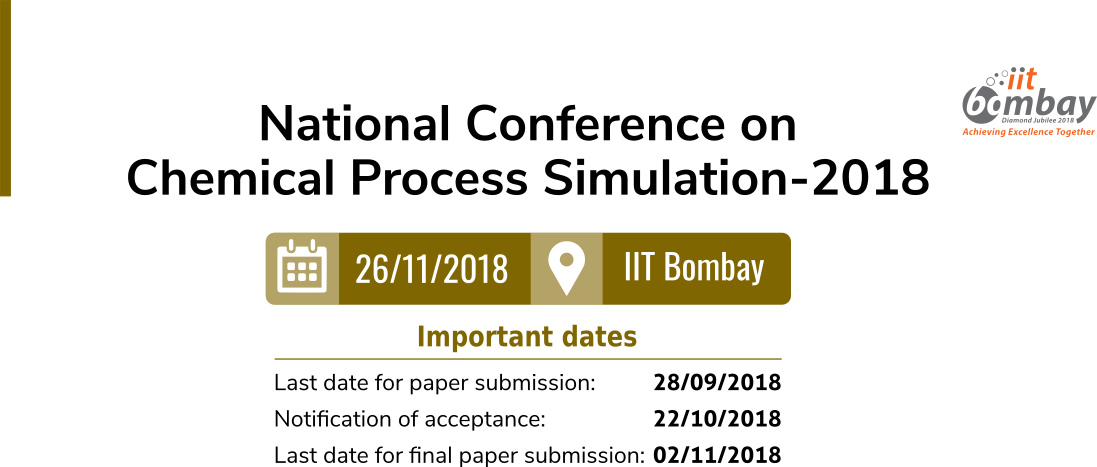
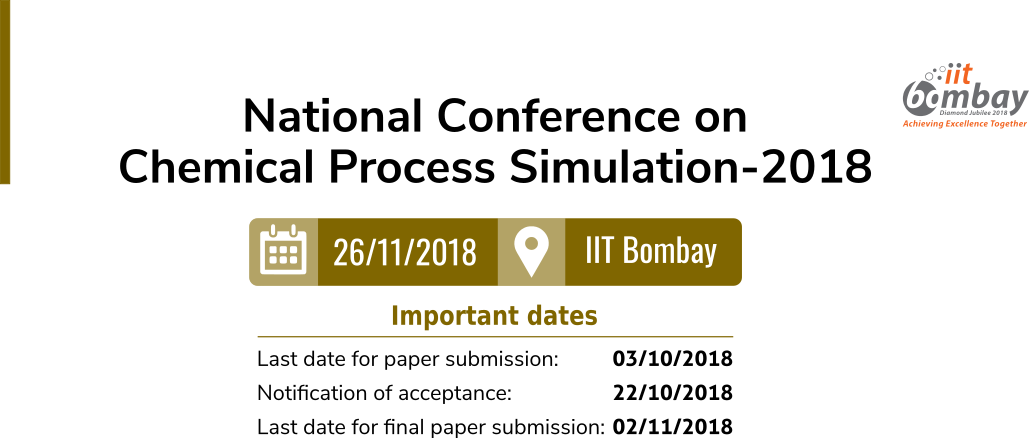
Extended last date for paper submission

diff --git a/static/website/templates/proposal.html b/static/website/templates/proposal.html
@@ -39,7 +39,7 @@
             </h2>
          </span>
         <ul>
-            <li>Last date for paper submission: <b> 28/09/2018</b></li>
+            <li>Last date for paper submission: <b> 03/10/2018</b></li>
             <li>Notification of acceptance: <b>22/10/2018</b></li>
             <li>Last date for final paper submission: <b>02/11/2018</b></li>
         </ul>

diff --git a/website/views.py b/website/views.py
@@ -228,7 +228,7 @@ def submitcfp(request):
                 message = """
                 Dear {0}, <br><br>
                 Thank you for showing interest & submitting a paper proposal at NCCPS-2018 
-                for the paper titled {1}. Reviewal of the proposals will start 
+                for the paper titled "<b>{1}</b>". Reviewal of the proposals will start 
                 once the CFP closes.
                 You will be notified regarding comments/selection/rejection of your paper via email. 
                 Visit this {2} link to view the status of your submission.
@@ -236,7 +236,7 @@ def submitcfp(request):
                 """.format(
                     social_user.first_name,
                     request.POST.get('title', None),
-                    'http://dwsim.fossee.in/nccps-2018/view-abstracts/',)
+                    'https://dwsim.fossee.in/nccps-2018/view-abstracts/',)
                 email = EmailMultiAlternatives(
                     subject, '',
                     sender_email, to,
@@ -291,7 +291,7 @@ def submitcfw(request):
                 """.format(
                     social_user.first_name,
                     request.POST.get('title', None),
-                    'http://dwsim.fossee.in/nccps-2018/view-abstracts/',)
+                    'https://dwsim.fossee.in/nccps-2018/view-abstracts/',)
                 email = EmailMultiAlternatives(
                     subject, '',
                     sender_email, to,
